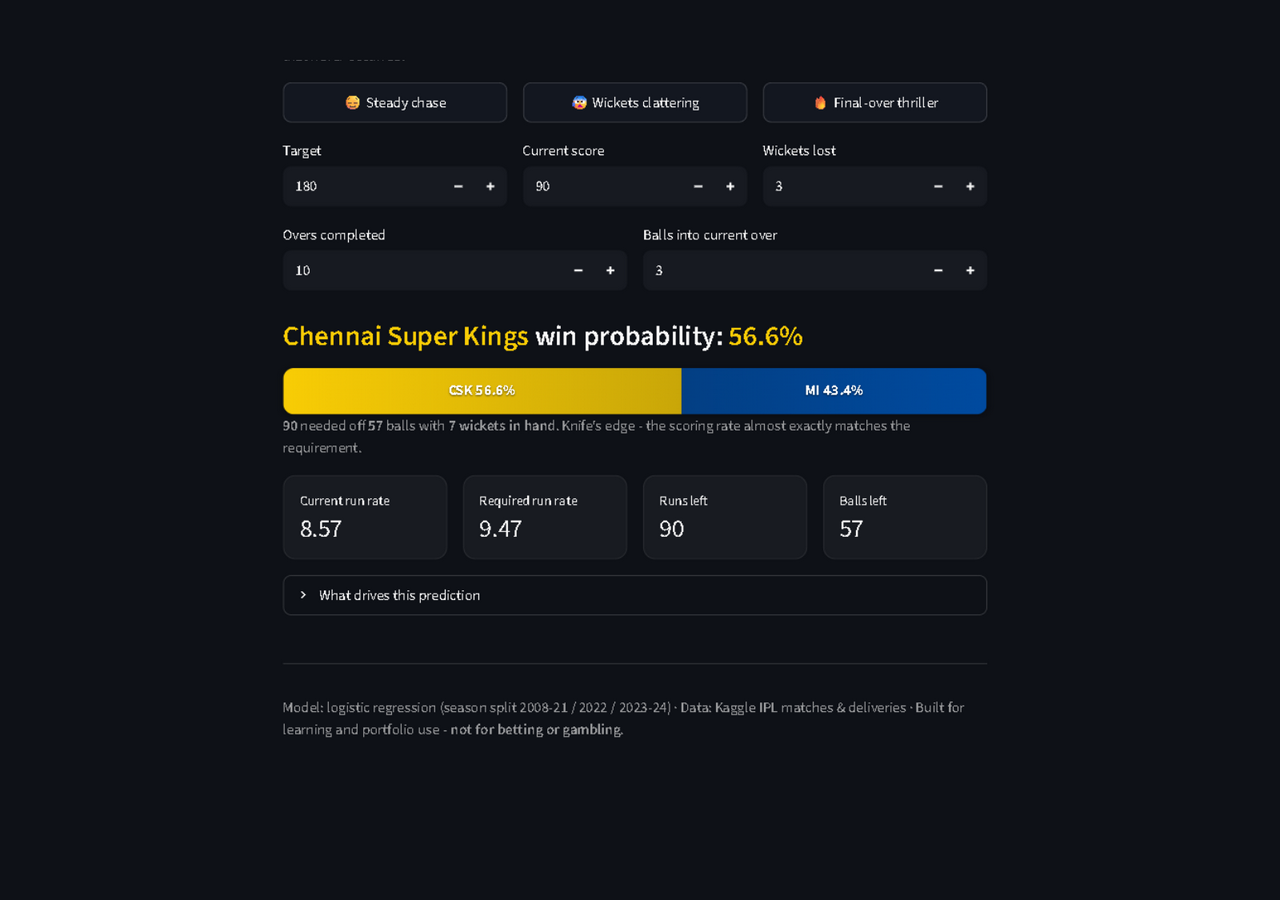
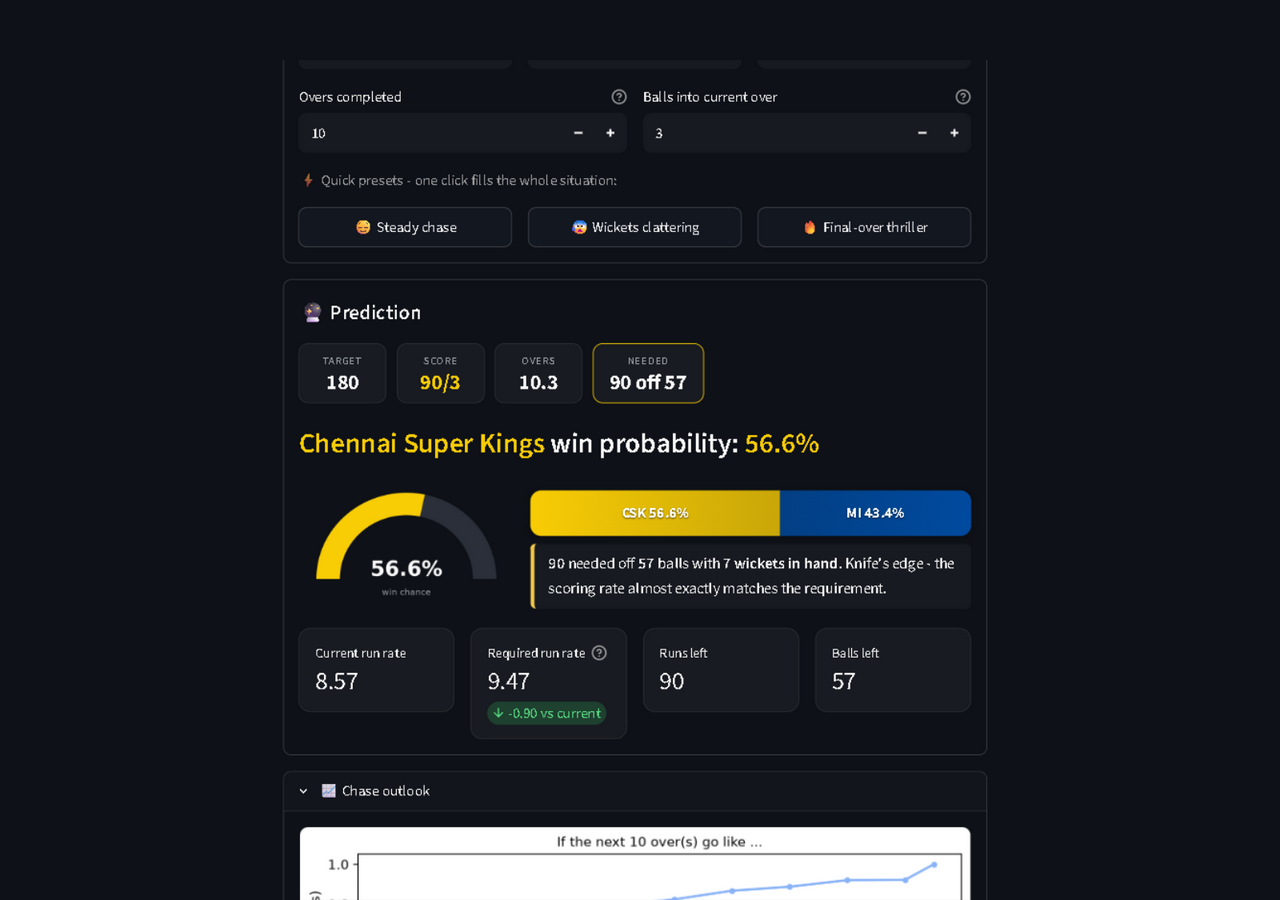
Prediction dashboard: scoreboard chips, win gauge, rate delta chip
- broadcast-style scoreboard strip (TARGET / SCORE / OVERS / NEEDED)
- semicircular win gauge in the batting team's colour (transparent bg)
- required-rate metric card shows delta vs current rate, colour-coded
  (green = winning the rate battle, red = behind)
- bordered 'Match situation' and 'Prediction' sections; presets moved
  under the inputs as quick-starts via on_click callback (fixes
  session-state-after-widget exception); help tooltips on all inputs
- verdict line in a state-coloured chip (green/amber/red)
- 40 tests pass; live browser verified with fresh screenshots

diff --git a/app/app.py b/app/app.py
@@ -20,8 +20,10 @@ ROOT = Path(__file__).resolve().parents[1]
 sys.path.insert(0, str(ROOT))
 
 import matplotlib.pyplot as plt  # noqa: E402  (Agg backend set by src.evaluate)
+import numpy as np  # noqa: E402
 import pandas as pd  # noqa: E402
 import streamlit as st  # noqa: E402
+from matplotlib.patches import Wedge  # noqa: E402
 
 from src import evaluate as ev  # noqa: E402
 from src.predict import predict_situation  # noqa: E402
@@ -80,6 +82,15 @@ CUSTOM_CSS = """
     .winbar .seg {display: flex; align-items: center; justify-content: center;
                   color: #fff; text-shadow: 0 1px 2px rgba(0,0,0,0.55);
                   white-space: nowrap; overflow: hidden;}
+    .scoreboard {display: flex; gap: 10px; flex-wrap: wrap; margin: 2px 0 10px 0;}
+    .chip {background: rgba(255,255,255,0.045); border: 1px solid rgba(255,255,255,0.09);
+           border-radius: 10px; padding: 8px 16px; display: flex; flex-direction: column;
+           align-items: center; min-width: 88px;}
+    .chip .lbl {font-size: 0.66rem; letter-spacing: 0.09em; color: #9AA0A6;}
+    .chip .val {font-size: 1.3rem; font-weight: 700; line-height: 1.25;}
+    .verdict {border-left: 4px solid #888; padding: 8px 14px; margin: 8px 0 4px 0;
+              background: rgba(255,255,255,0.04); border-radius: 6px;
+              font-size: 0.95rem;}
     div[data-testid="stExpander"] {border-radius: 12px;}
 </style>
 """
@@ -94,6 +105,32 @@ def team_color(team: str) -> str:
 def team_short(team: str) -> str:
     """Short franchise code for tight UI labels."""
     return TEAM_SHORT.get(team, team[:3].upper())
+
+
+def draw_gauge(p: float, color: str):
+    """Semicircular win-probability gauge in the batting team's colour.
+
+    Args:
+        p: Win probability of the batting team (0-1).
+        color: Arc colour.
+
+    Returns:
+        The Matplotlib figure.
+    """
+    fig, ax = plt.subplots(figsize=(3.1, 2.0), dpi=150)
+    fig.patch.set_alpha(0.0)
+    ax.set_facecolor("none")
+    ax.add_patch(Wedge((0, 0), 1.0, 0, 180, width=0.26, facecolor="#2A2F3A"))
+    ax.add_patch(Wedge((0, 0), 1.0, 180 * (1 - p), 180, width=0.26, facecolor=color))
+    ax.text(0, 0.10, f"{p * 100:.1f}%", ha="center", va="center",
+            fontsize=21, fontweight="bold", color="#FAFAFA")
+    ax.text(0, -0.16, "win chance", ha="center", va="center",
+            fontsize=8.5, color="#9AA0A6")
+    ax.set_xlim(-1.12, 1.12)
+    ax.set_ylim(-0.30, 1.12)
+    ax.axis("off")
+    fig.tight_layout()
+    return fig
 
 
 @st.cache_resource(show_spinner="Loading model...")
@@ -198,45 +235,58 @@ live_tab, replay_tab, about_tab = st.tabs(["⚡ Live situation", "🎬 Match rep
 # ---------------------------------------------------------------------------
 
 with live_tab:
-    col_team1, col_team2 = st.columns(2)
-    batting = col_team1.selectbox(
-        "Batting team (chasing)", ACTIVE_TEAMS,
-        index=ACTIVE_TEAMS.index("Chennai Super Kings") if "Chennai Super Kings" in ACTIVE_TEAMS else 0,
-        key="batting",
-    )
-    bowling_options = [t for t in ACTIVE_TEAMS if t != batting]
-    bowling = col_team2.selectbox(
-        "Bowling team (defending)", bowling_options,
-        index=bowling_options.index("Mumbai Indians") if "Mumbai Indians" in bowling_options else 0,
-        key="bowling",
-    )
-    col_team1.caption(f"Recent form: {ART['team_strength'].get(batting, 0.5):.0%} wins "
-                      "(rolling, through 2024)")
-    col_team2.caption(f"Recent form: {ART['team_strength'].get(bowling, 0.5):.0%} wins "
-                      "(rolling, through 2024)")
-    venue = st.selectbox("Venue", VENUES, key="venue")
-    venue_stats = get_venue_stats()
-    if venue in venue_stats.index:
-        vrow = venue_stats.loc[venue]
-        st.caption(f"🏟 Chasing teams win {vrow['chase_win_rate']:.0%} of matches at this venue "
-                   f"({int(vrow['matches'])} matches, 2008-24).")
-    st.caption("Only franchises active in 2023-24 are offered - the model's team "
-               "effects must not be extrapolated to defunct pairings that never occurred.")
+    with st.container(border=True):
+        st.markdown("##### 🏟 Match situation")
+        col_team1, col_team2 = st.columns(2)
+        batting = col_team1.selectbox(
+            "Batting team (chasing)", ACTIVE_TEAMS,
+            index=ACTIVE_TEAMS.index("Chennai Super Kings") if "Chennai Super Kings" in ACTIVE_TEAMS else 0,
+            key="batting",
+        )
+        bowling_options = [t for t in ACTIVE_TEAMS if t != batting]
+        bowling = col_team2.selectbox(
+            "Bowling team (defending)", bowling_options,
+            index=bowling_options.index("Mumbai Indians") if "Mumbai Indians" in bowling_options else 0,
+            key="bowling",
+        )
+        col_team1.caption(f"Recent form: {ART['team_strength'].get(batting, 0.5):.0%} wins "
+                          "(rolling, through 2024)")
+        col_team2.caption(f"Recent form: {ART['team_strength'].get(bowling, 0.5):.0%} wins "
+                          "(rolling, through 2024)")
+        venue = st.selectbox("Venue", VENUES, key="venue",
+                             help="Where the match is played - the model's heaviest feature.")
+        venue_stats = get_venue_stats()
+        if venue in venue_stats.index:
+            vrow = venue_stats.loc[venue]
+            st.caption(f"🏟 Chasing teams win {vrow['chase_win_rate']:.0%} of matches at this venue "
+                       f"({int(vrow['matches'])} matches, 2008-24).")
+        st.caption("Only franchises active in 2023-24 are offered - the model's team "
+                   "effects must not be extrapolated to defunct pairings that never occurred.")
 
-    preset_row = st.columns(len(PRESETS))
-    for col, (label, values) in zip(preset_row, PRESETS.items()):
-        if col.button(label, use_container_width=True, key=f"preset_{label}"):
+        col_t, col_s, col_w = st.columns(3)
+        target = col_t.number_input("Target", min_value=1, max_value=300, value=180, key="target",
+                                    help="Total the batting team must pass to win.")
+        score = col_s.number_input("Current score", min_value=0, max_value=400, value=90, key="score",
+                                   help="Runs scored so far in the chase.")
+        wickets = col_w.number_input("Wickets lost", min_value=0, max_value=10, value=3, key="wickets",
+                                     help="Wickets down (10 all out).")
+        col_o, col_b = st.columns(2)
+        overs = col_o.number_input("Overs completed", min_value=0, max_value=19, value=10, key="overs",
+                                   help="Full overs bowled in the chase so far.")
+        balls = col_b.number_input("Balls into current over", min_value=0, max_value=5, value=3, key="balls",
+                                   help="Legal balls bowled in the current over (0-5).")
+
+        st.caption("⚡ Quick presets - one click fills the whole situation:")
+        preset_row = st.columns(len(PRESETS))
+
+        def apply_preset(values: dict[str, int]) -> None:
+            """Button callback: runs before the rerun so widgets pick up values."""
             for widget_key, value in values.items():
                 st.session_state[widget_key] = value
 
-    col_t, col_s, col_w = st.columns(3)
-    target = col_t.number_input("Target", min_value=1, max_value=300, value=180, key="target")
-    score = col_s.number_input("Current score", min_value=0, max_value=400, value=90, key="score")
-    wickets = col_w.number_input("Wickets lost", min_value=0, max_value=10, value=3, key="wickets")
-
-    col_o, col_b = st.columns(2)
-    overs = col_o.number_input("Overs completed", min_value=0, max_value=19, value=10, key="overs")
-    balls = col_b.number_input("Balls into current over", min_value=0, max_value=5, value=3, key="balls")
+        for col, (label, values) in zip(preset_row, PRESETS.items()):
+            col.button(label, use_container_width=True, key=f"preset_{label}",
+                       on_click=apply_preset, args=(values,))
 
     errors: list[str] = []
     if batting == bowling:
@@ -266,43 +316,70 @@ with live_tab:
     p = result["p_bat"]
     bat_color, bowl_color = team_color(batting), team_color(bowling)
 
-    st.markdown(
-        f"### <span style='color:{bat_color}'>{batting}</span> win probability: "
-        f"<span style='color:{bat_color}'>{p * 100:.1f}%</span>",
-        unsafe_allow_html=True,
-    )
+    with st.container(border=True):
+        st.markdown("##### 🔮 Prediction")
+        st.markdown(
+            f"<div class='scoreboard'>"
+            f"<div class='chip'><span class='lbl'>TARGET</span>"
+            f"<span class='val'>{target:.0f}</span></div>"
+            f"<div class='chip'><span class='lbl'>SCORE</span>"
+            f"<span class='val' style='color:{bat_color}'>{score:.0f}/{wickets:.0f}</span></div>"
+            f"<div class='chip'><span class='lbl'>OVERS</span>"
+            f"<span class='val'>{overs:.0f}.{balls:.0f}</span></div>"
+            f"<div class='chip' style='border-color:{bat_color}'>"
+            f"<span class='lbl'>NEEDED</span>"
+            f"<span class='val'>{result['runs_left']:.0f} off {result['balls_left']:.0f}</span></div>"
+            f"</div>",
+            unsafe_allow_html=True,
+        )
+        st.markdown(
+            f"### <span style='color:{bat_color}'>{batting}</span> win probability: "
+            f"<span style='color:{bat_color}'>{p * 100:.1f}%</span>",
+            unsafe_allow_html=True,
+        )
 
-    bat_seg = f"{team_short(batting)} {p * 100:.1f}%"
-    bowl_seg = f"{team_short(bowling)} {(1 - p) * 100:.1f}%"
-    st.markdown(
-        f"<div class='winbar'>"
-        f"<div class='seg' style='width:{max(p * 100, 14):.1f}%; "
-        f"background:linear-gradient(90deg, {bat_color}, {bat_color}CC)'>{bat_seg}</div>"
-        f"<div class='seg' style='width:{max((1 - p) * 100, 14):.1f}%; "
-        f"background:linear-gradient(90deg, {bowl_color}CC, {bowl_color})'>{bowl_seg}</div>"
-        f"</div>",
-        unsafe_allow_html=True,
-    )
+        gcol, bcol = st.columns([1, 2], vertical_alignment="center")
+        gcol.pyplot(draw_gauge(p, bat_color), use_container_width=False)
+        with bcol:
+            bat_seg = f"{team_short(batting)} {p * 100:.1f}%"
+            bowl_seg = f"{team_short(bowling)} {(1 - p) * 100:.1f}%"
+            st.markdown(
+                f"<div class='winbar'>"
+                f"<div class='seg' style='width:{max(p * 100, 14):.1f}%; "
+                f"background:linear-gradient(90deg, {bat_color}, {bat_color}CC)'>{bat_seg}</div>"
+                f"<div class='seg' style='width:{max((1 - p) * 100, 14):.1f}%; "
+                f"background:linear-gradient(90deg, {bowl_color}CC, {bowl_color})'>{bowl_seg}</div>"
+                f"</div>",
+                unsafe_allow_html=True,
+            )
+            crr, rrr = result["crr"], result["rrr"]
+            if result["runs_left"] == 0:
+                state_color, verdict = "#3FB68B", "The target is reached - chase complete."
+            elif crr >= rrr + 1:
+                state_color = "#3FB68B"
+                verdict = f"{batting} are scoring comfortably faster than the required rate."
+            elif crr <= rrr - 1:
+                state_color = "#E45756"
+                verdict = f"{batting} are falling behind the required rate."
+            else:
+                state_color = "#F2C94C"
+                verdict = "Knife's edge - the scoring rate almost exactly matches the requirement."
+            st.markdown(
+                f"<div class='verdict' style='border-left-color:{state_color}'>"
+                f"<b>{result['runs_left']:.0f}</b> needed off <b>{result['balls_left']:.0f}</b> balls "
+                f"with <b>{10 - int(wickets)} wickets in hand</b>. {verdict}"
+                f"</div>",
+                unsafe_allow_html=True,
+            )
 
-    crr, rrr = result["crr"], result["rrr"]
-    if result["runs_left"] == 0:
-        verdict = "The target is reached - chase complete."
-    elif crr >= rrr + 1:
-        verdict = f"{batting} are scoring comfortably faster than the required rate."
-    elif crr <= rrr - 1:
-        verdict = f"{batting} are falling behind the required rate."
-    else:
-        verdict = "Knife's edge - the scoring rate almost exactly matches the requirement."
-    st.caption(
-        f"**{result['runs_left']:.0f}** needed off **{result['balls_left']:.0f}** balls "
-        f"with **{10 - int(wickets)} wickets in hand**. {verdict}"
-    )
-
-    m_crr, m_rrr, m_runs, m_balls = st.columns(4)
-    m_crr.metric("Current run rate", f"{result['crr']:.2f}")
-    m_rrr.metric("Required run rate", f"{result['rrr']:.2f}")
-    m_runs.metric("Runs left", f"{result['runs_left']:.0f}")
-    m_balls.metric("Balls left", f"{result['balls_left']:.0f}")
+        m_crr, m_rrr, m_runs, m_balls = st.columns(4)
+        m_crr.metric("Current run rate", f"{result['crr']:.2f}")
+        m_rrr.metric("Required run rate", f"{result['rrr']:.2f}",
+                     delta=f"{crr - rrr:+.2f} vs current",
+                     delta_color="normal" if crr >= rrr else "inverse",
+                     help="Green when the batting team is scoring faster than required.")
+        m_runs.metric("Runs left", f"{result['runs_left']:.0f}")
+        m_balls.metric("Balls left", f"{result['balls_left']:.0f}")
 
     with st.expander("📈 Chase outlook", expanded=True):
         outlook, steps = chase_outlook(result, int(target), int(score), int(overs),

diff --git a/README.md b/README.md
@@ -138,16 +138,18 @@ Screenshots (captured live, stored in `reports/screenshots/`):
 
 | File | Shows |
 |---|---|
-| `app_live.png` | Dark-themed inputs, one-click presets, win-probability headline |
-| `app_stats.png` | Two-tone team-coloured win bar, verdict line, CRR/RRR/runs/balls cards |
+| `app_live.png` | Dark-themed inputs with tooltips, form/venue context, one-click presets |
+| `app_stats.png` | Prediction dashboard: scoreboard chips, team-coloured gauge, two-tone win bar, verdict |
 | `app_outlook.png` | Chase outlook: win probability over the next overs under three scoring-rate scenarios |
 | `app_drivers.png` | "What drives this prediction" + what-if table with point deltas |
 | `app_thriller.png` | The "Final-over thriller" preset: 14 needed off 3 balls → 0.7% |
 | `app_replay.png` | Match replay: team-coloured probability curve with wicket markers |
 | `app_model_card.png` | Model card tab: split design, measured metrics, drivers, limitations |
 
-Other app features: venue context (historical chase win rate at the selected
-ground), team rolling-form captions, and a copyable match summary block.
+Other app features: a broadcast-style scoreboard strip (target / score / overs /
+needed), a required-rate delta chip (green when the batting side is winning the
+rate battle), venue context (historical chase win rate at the selected ground),
+team rolling-form captions, and a copyable match summary block.
 
 Re-capture after deployment if you restyle anything, and replace the live-app
 placeholder at the top.
